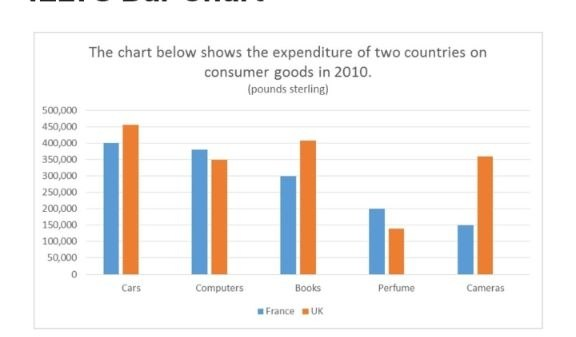
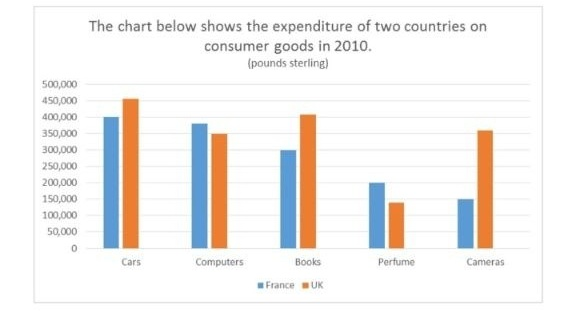
Refactor listening notes and improve HTML structure
- Updated listening notes for tests 17 and 18 to enhance HTML formatting by removing unnecessary headings and wrapping tables in divs for better styling.
- Adjusted the notes for business and nanotechnology sections in reading 18 to maintain consistency in HTML structure.
- Modified the tests to ensure that notes do not repeat titles and that the correct structure is maintained.
- Improved the CSS for notes tables to allow horizontal scrolling on mobile devices, ensuring better usability.
- Updated image handling in the build script to crop and save images appropriately for mock tests.

diff --git a/templates/exams/take_exam.html b/templates/exams/take_exam.html
@@ -842,6 +842,12 @@
         .notes-box-body .notes-row { display: flex; gap: 12px; }
         .notes-box-body .notes-row > span:first-child { min-width: 150px; font-weight: 600; }
         .notes-box-body .notes-indent { padding-left: 24px; }
+        /* "Complete the table" questions: a gridded table that scrolls
+           sideways on phones instead of squeezing four columns. */
+        .notes-table-wrap { overflow-x: auto; margin: 4px 0 6px; }
+        .notes-table { border-collapse: collapse; width: 100%; min-width: 520px; line-height: 1.6; }
+        .notes-table th, .notes-table td { border: 1px solid #90a4ae; padding: 6px 10px; text-align: left; vertical-align: top; }
+        .notes-table th { font-weight: 700; background: rgba(69, 90, 100, .08); }
         .notes-gap { white-space: nowrap; }
         .notes-gap .question-num { margin: 0 2px 0 4px; }
         .notes-input.ans-input { display: inline-block; width: 150px; margin: 0 4px 0 0; padding: 2px 8px; vertical-align: middle; background: #fffde7; }
@@ -965,6 +971,8 @@
         :root[data-exam-theme="dark"] .question-item,
         :root[data-exam-theme="dark"] .notes-box,
         :root[data-exam-theme="dark"] .notes-box-body { background:var(--q-bg); color:var(--text); }
+        :root[data-exam-theme="dark"] .notes-table th,
+        :root[data-exam-theme="dark"] .notes-table td { border-color:var(--border); }
         :root[data-exam-theme="dark"] .ans-input,
         :root[data-exam-theme="dark"] .inline-gap,
         :root[data-exam-theme="dark"] .notes-input.ans-input,

diff --git a/scripts/build_testlar13.py b/scripts/build_testlar13.py
@@ -209,15 +209,13 @@ def listening17():
 
 def listening17_notes():
     return {
-        "1": """<h5>Ohope Holiday Park: Accommodation</h5>
-<table class="notes-table">
+        "1": """<div class="notes-table-wrap"><table class="notes-table">
 <tr><th>Type of cabin</th><th>Location</th><th>Facilities</th><th>Cost and charges</th></tr>
 <tr><td>Basic</td><td>next to the pool</td><td>kitchen has a fridge and a [[1]]</td><td>$35 per night</td></tr>
 <tr><td>Standard</td><td>close to [[2]]</td><td>fully-equipped kitchen and a [[3]]</td><td>$55 per night</td></tr>
 <tr><td>Standard Plus</td><td>facing the [[4]]</td><td>comes with own spa</td><td>discount of [[5]]% for bookings over ten nights</td></tr>
-</table>""",
-        "6": """<h5>General information about the holiday park and the Ohope area</h5>
-<ul>
+</table></div>""",
+        "6": """<ul>
 <li>The children can play [[6]] for free.</li>
 <li>It's possible to hire equipment for [[7]] for an afternoon.</li>
 <li>The children could visit the local [[8]] on Saturday and Sunday.</li>
@@ -225,8 +223,7 @@ def listening17_notes():
 <li>Contact [[10]] to confirm the booking.</li>
 </ul>""",
         "13": """<p>Joan's official title in Riding for the Disabled (RDA) is chairperson. In her local district there are at present twenty-two riders and [[13]] helpers on the volunteer list, out of whom [[14]] come regularly.</p>""",
-        "31": """<h5>Field trial – heat pump technology</h5>
-<p><strong>Background</strong></p>
+        "31": """<p><strong>Background</strong></p>
 <ul>
 <li>Aim in UK is to reduce carbon emissions from energy consumed in [[31]] by approximately 25%</li>
 <li>Most popular 'green' energy: [[32]]</li>
@@ -383,8 +380,7 @@ def reading17_notes():
 <p>A noticeable correlation exists between art involvement in childhood and those in [[25]].</p>
 <p>The National Photography Program allows members to grow personally and also gain [[26]].</p>
 </div>""",
-        "31": """<h5>Embodiment: an essential feature</h5>
-<p>Unlike machines, animals (including humans) have a body, including a brain which has evolved to provide [[31]] for that body and allow its genes to be passed on. An animal's senses provide it with information about its [[32]], and then it can react physically to what it [[33]] through senses. The interaction of the body and brain therefore allows the creation of a link between [[34]] and action. The [[35]] which make us human and which distinguish us from animals have their [[36]] in this link between the brain and the body, and have developed from it.</p>
+        "31": """<p>Unlike machines, animals (including humans) have a body, including a brain which has evolved to provide [[31]] for that body and allow its genes to be passed on. An animal's senses provide it with information about its [[32]], and then it can react physically to what it [[33]] through senses. The interaction of the body and brain therefore allows the creation of a link between [[34]] and action. The [[35]] which make us human and which distinguish us from animals have their [[36]] in this link between the brain and the body, and have developed from it.</p>
 <div class="summary-word-bank">
 <span><strong>A</strong> results</span><span><strong>B</strong> nourishment</span><span><strong>C</strong> basis</span><span><strong>D</strong> qualities</span>
 <span><strong>E</strong> protection</span><span><strong>F</strong> evolution</span><span><strong>G</strong> surroundings</span><span><strong>H</strong> values</span>
@@ -457,8 +453,7 @@ def listening18():
 
 def listening18_notes():
     return {
-        "1": """<h5>Library services</h5>
-<ul>
+        "1": """<ul>
 <li>Area of living: in the west of Perth</li>
 <li>Best option – Minack Library</li>
 <li>Located in [[1]] Street, next to the [[2]]</li>
@@ -477,8 +472,7 @@ def listening18_notes():
 </ul>
 <p><strong>Library shop sells</strong></p>
 <ul><li>Postcards (small selection)</li><li>[[10]] (wide range)</li></ul>""",
-        "31": """<h5>Cloud Science</h5>
-<p><strong>Origins</strong></p>
+        "31": """<p><strong>Origins</strong></p>
 <ul>
 <li>A British scientist classified clouds into three shapes, with the second type (Cumulus) resembling a cone-shaped [[31]]</li>
 <li>The third type of cloud was compared to a flat [[32]]</li>
@@ -646,8 +640,7 @@ def reading18():
 
 def reading18_notes():
     return {
-        "6": """<h5>How business works</h5>
-<p><strong>Kate Jones's research</strong></p>
+        "6": """<p><strong>Kate Jones's research</strong></p>
 <ul><li>The most important aspect of business is having [[6]] in others.</li>
 <li>[[7]] do not have the ability to establish the good relationships essential to business.</li></ul>
 <p><strong>Business and globalisation</strong></p>
@@ -658,11 +651,9 @@ def reading18_notes():
 <ul><li>Business cards clearly show the [[11]] of each person in a large company.</li>
 <li>The ritual of swapping business cards is a good way of starting a [[12]] at the beginning of a business relationship.</li>
 <li>Janet feels that in the business world, [[13]] is just as important as innovation.</li></ul>""",
-        "14": """<h5>Nanotechnology</h5>
-<p>In the same way that a child may use [[14]], scientists are now able to create new structures by combining the smallest particles known to man. We can fully appreciate the microscopic scale of this work by comparing the exact [[15]] of one atom with that of a single human hair.</p>
+        "14": """<p>In the same way that a child may use [[14]], scientists are now able to create new structures by combining the smallest particles known to man. We can fully appreciate the microscopic scale of this work by comparing the exact [[15]] of one atom with that of a single human hair.</p>
 <p>A lot of today's electronic consumer goods, such as lasers, have components that are microscopic in size. They are not the only products relying on nanotechnology. For example, a long-lasting [[16]], widely available today, relies on minute nanoparticles for its effectiveness. This was developed in the 1990s as a result of concerns about the safety of existing products.</p>""",
-        "32": """<h5>John Franklin and the Quality of Slowness</h5>
-<p>Little is known from Franklin's correspondence and published writings about his [[32]]. The author, Nadolny, suggests that Franklin's whole life can be explained by the quality of 'slowness'. He begins the book by showing how this affects the young Franklin's [[33]] activities, and makes him become [[34]]. As a child, it is the quality of [[35]] that attracts Franklin to the Arctic.</p>
+        "32": """<p>Little is known from Franklin's correspondence and published writings about his [[32]]. The author, Nadolny, suggests that Franklin's whole life can be explained by the quality of 'slowness'. He begins the book by showing how this affects the young Franklin's [[33]] activities, and makes him become [[34]]. As a child, it is the quality of [[35]] that attracts Franklin to the Arctic.</p>
 <div class="summary-word-bank">
 <span><strong>A</strong> a bully</span><span><strong>B</strong> discoveries</span><span><strong>C</strong> educational</span><span><strong>D</strong> family</span>
 <span><strong>E</strong> isolation</span><span><strong>F</strong> an outsider</span><span><strong>G</strong> personality</span><span><strong>H</strong> problems</span>
@@ -703,8 +694,12 @@ def main():
     from PIL import Image
 
     IMAGES.mkdir(parents=True, exist_ok=True)
-    (IMAGES / "mock_test_17_task1.jpg").write_bytes((SOURCE / "photo_2026-11-28_08-46-50.jpg").read_bytes())
-    (IMAGES / "mock_test_18_task1.jpg").write_bytes((SOURCE / "photo_2026-11-28_08-46-55.jpg").read_bytes())
+    # Keep only the charts: the first photo has a clipped "IELTS Bar Chart"
+    # header, the second repeats the whole task text the question shows.
+    Image.open(SOURCE / "photo_2026-11-28_08-46-50.jpg").crop((0, 26, 576, 337)).save(
+        IMAGES / "mock_test_17_task1.jpg", quality=95)
+    Image.open(SOURCE / "photo_2026-11-28_08-46-55.jpg").crop((0, 216, 512, 491)).save(
+        IMAGES / "mock_test_18_task1.jpg", quality=95)
     # The condenser diagram (Listening Q27-30) is on page 5 of the TEST 6
     # booklet; crop away the instructions and the answer lines below it.
     rendered = IMAGES / "mock_test_18_condenser_page.jpg"

diff --git a/exams/tests.py b/exams/tests.py
@@ -463,9 +463,14 @@ class SeedTestlar7Tests(TestCase):
             # Every notes gap belongs to a question of the same section.
             for section in (listening, reading):
                 orders = set(section.questions.values_list('order', flat=True))
-                for template in section.extra_data['notes'].values():
+                for first, template in section.extra_data['notes'].items():
                     for gap in re.findall(r'\[\[(\d+)\]\]', template):
                         self.assertIn(int(gap), orders)
+                    # The box title comes from the first question's "[Title]";
+                    # the notes must not repeat it as their own heading.
+                    title = re.match(r'\[([^\]]+)\]', section.questions.get(order=int(first)).text)
+                    if title:
+                        self.assertNotIn(f'<h5>{title.group(1)}</h5>', template)
             self.assertTrue(writing.image)
             self.assertEqual(
                 list(writing.questions.order_by('order').values_list('question_type', 'word_limit')),
@@ -490,6 +495,10 @@ class SeedTestlar7Tests(TestCase):
             resp = self.client.get(reverse('exams:take_exam', args=[exam.pk]))
             self.assertEqual(resp.status_code, 200)
             self.assertNotRegex(resp.content.decode(), r'\[\[\d+\]\]')
+            if number == 17:
+                # Listening Q1-5 is a table; it scrolls sideways on phones.
+                self.assertContains(resp, '<div class="notes-table-wrap"><table class="notes-table">')
+                self.assertContains(resp, '<div class="notes-box-title">Ohope Holiday Park: Accommodation</div>', html=True)
 
 
 class QuestionHeadingTests(TestCase):
